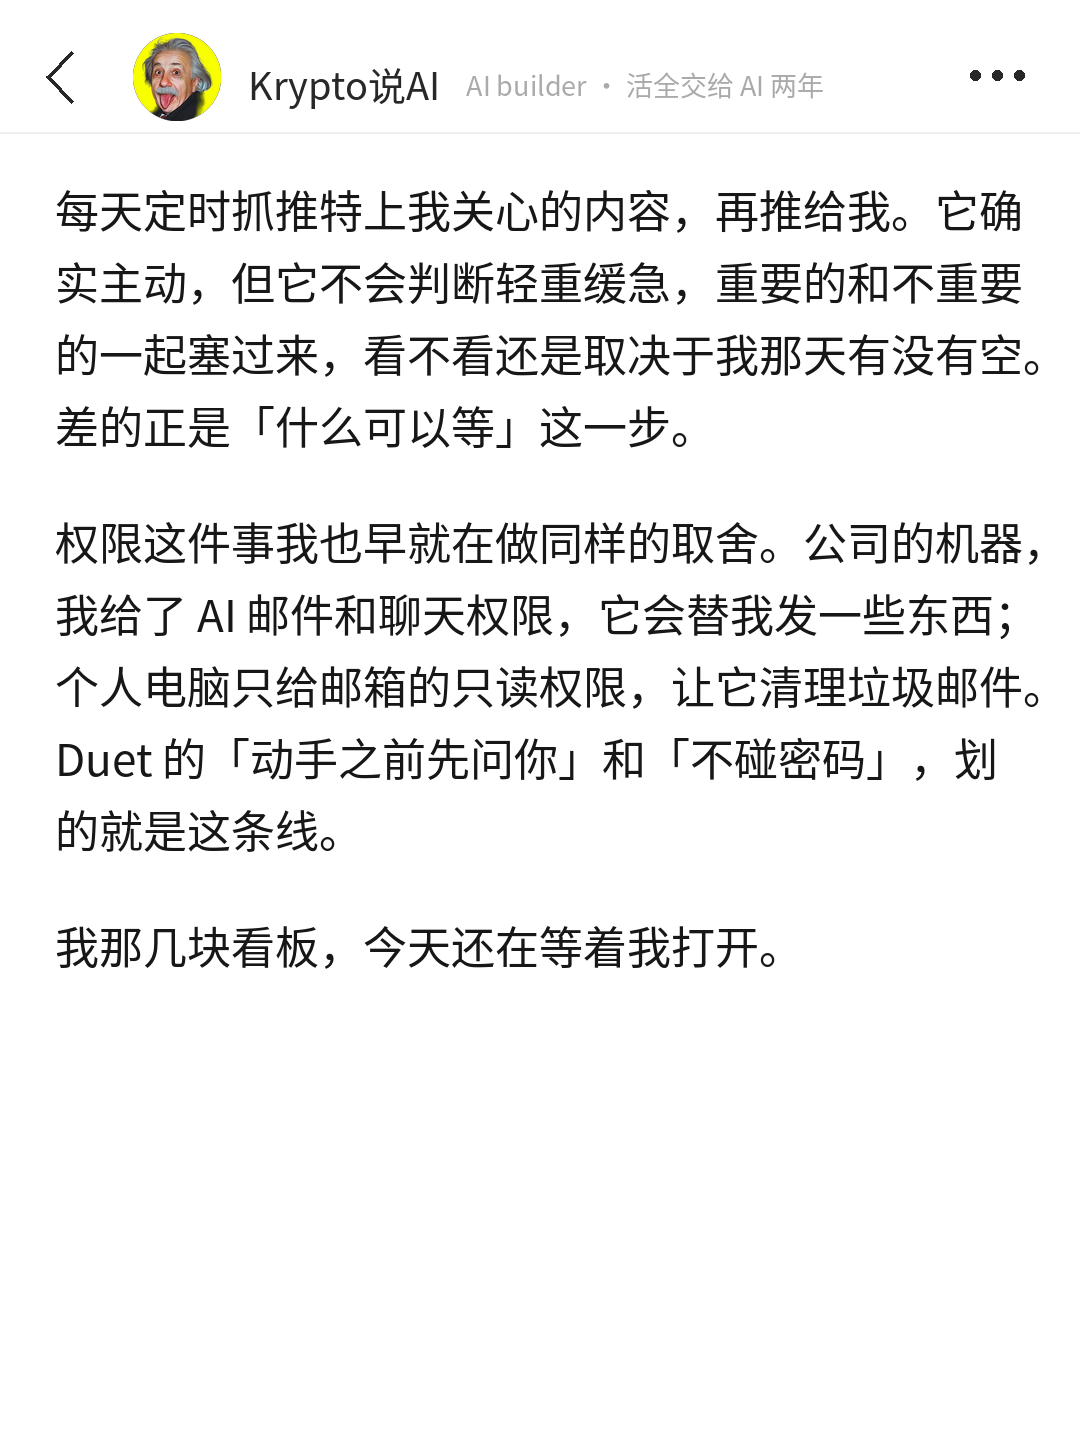
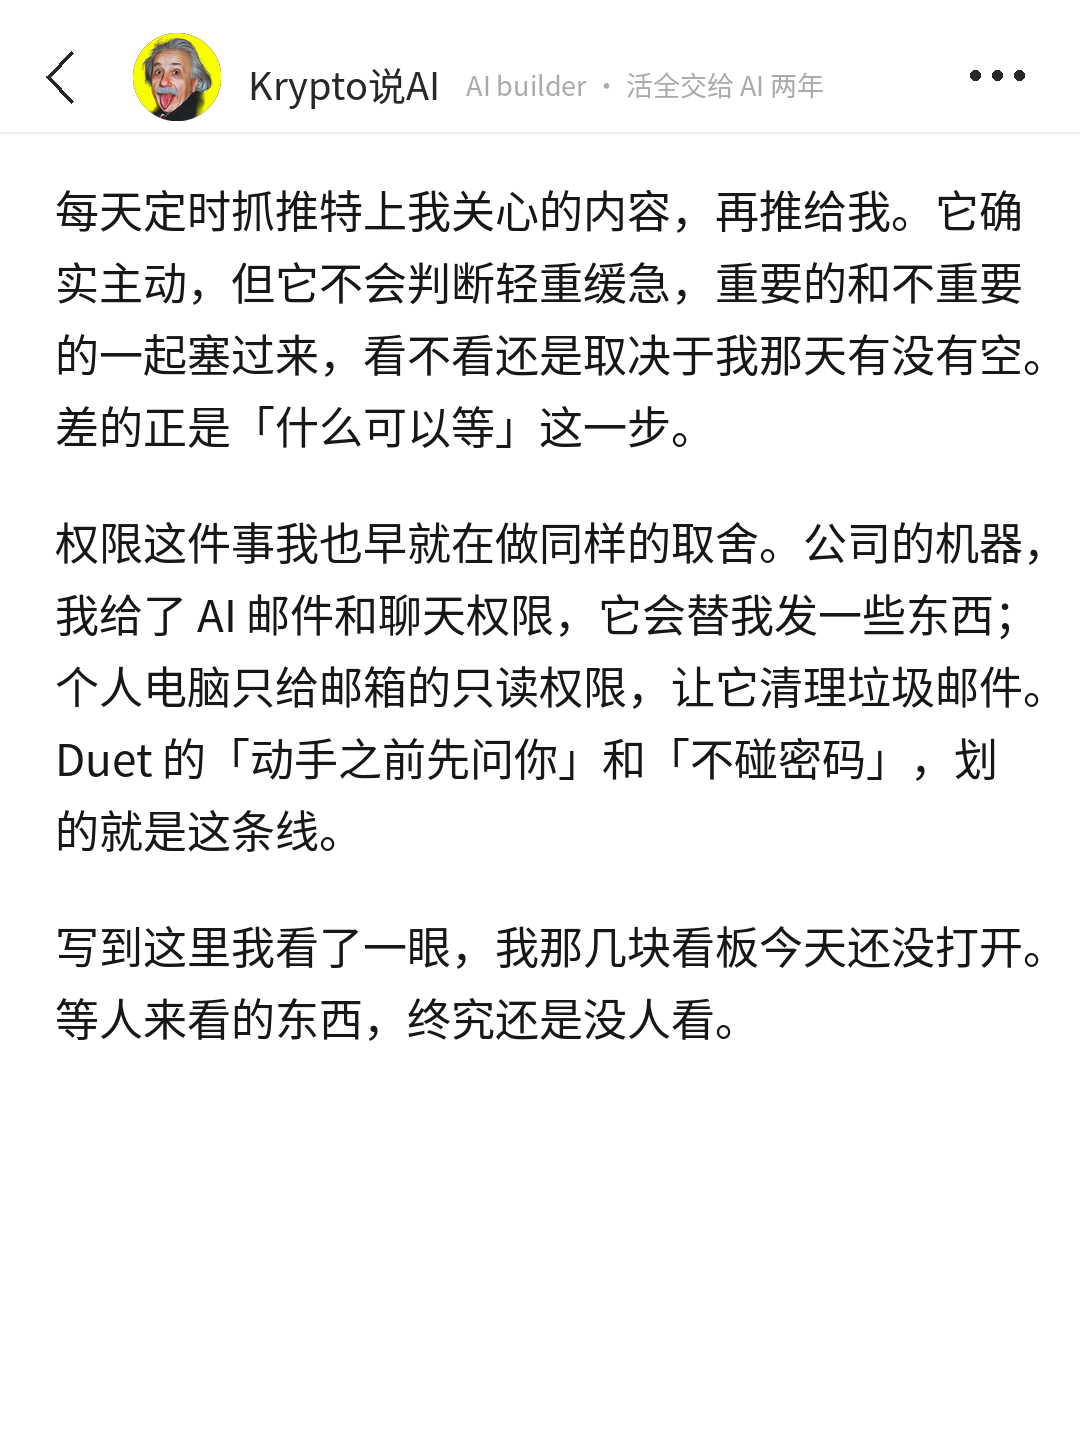
Claude Duet 稿结尾写明白
Claude-Session: https://claude.ai/code/session_017tvE9f3JBJNdHBN9dZEhix

Changed region(s): [[0.0611, 0.625, 0.9472, 0.7188]]

diff --git a/CLAUDE.md b/CLAUDE.md
@@ -3,7 +3,7 @@
 这个仓库是小红书账号 **Krypto说AI** 的工作区，也是它的记忆。在这里做的每一篇稿子，先读本页，再读 `账号/档案.md`、`账号/经历库.md` 和 `账号/爆文方法论.md`（10-14 起，选题 / 标题 / 首图 / 原文跟发的发前清单，交付时逐条写过没过）。每次用户说了新的经历、新的观点、新的规则，写回这两份文件并更新本页摘要，不要只留在对话里。
 
 ## 摘要
-- **10-22 Claude Duet 发布稿（meme-v2 第 3 篇，热点快评，value 框架，立场 D，`发布/2026-10-22_claude-duet/meme-v2版/`，6 页）**：素材是用户发来的 @claudeai 四条推文打包（10-22 03:09 HK 发布，420 万浏览，100 秒演示视频 640×360）。没走先问，默认：stance「主动型 agent 的胜负手不在能做多少事，在判断什么时候该来打扰你准不准；判错一次用户就关通知」（D），「我」用 #25 看板等人来 / Duet 反过来找人、#10 Grok bot 定时推送差「什么可以等」、#12 权限分两台机器对上「动手前先问 / 不碰密码」，代价 #25。演示视频按 5 秒抽帧选了 5 张（通知 / It reaches out / Step away / final say / Not now·Send）。结尾回扣「我那几块看板，今天还在等着我打开」。标题「Claude Duet：AI开始主动找你了」，备选「Anthropic新app：AI先来找你」「看来很多人没看懂Claude Duet。」。check.py 0 ✗
+- **10-22 Claude Duet 发布稿（meme-v2 第 3 篇，热点快评，value 框架，立场 D，`发布/2026-10-22_claude-duet/meme-v2版/`，6 页）**：素材是用户发来的 @claudeai 四条推文打包（10-22 03:09 HK 发布，420 万浏览，100 秒演示视频 640×360）。没走先问，默认：stance「主动型 agent 的胜负手不在能做多少事，在判断什么时候该来打扰你准不准；判错一次用户就关通知」（D），「我」用 #25 看板等人来 / Duet 反过来找人、#10 Grok bot 定时推送差「什么可以等」、#12 权限分两台机器对上「动手前先问 / 不碰密码」，代价 #25。演示视频按 5 秒抽帧选了 5 张（通知 / It reaches out / Step away / final say / Not now·Send）。结尾回扣原来写「我那几块看板，今天还在等着我打开」，用户问含义（没写明白），改成「写到这里我看了一眼，我那几块看板今天还没打开。等人来看的东西，终究还是没人看」。标题「Claude Duet：AI开始主动找你了」，备选「Anthropic新app：AI先来找你」「看来很多人没看懂Claude Duet。」。check.py 0 ✗
 - **10-21 Ilya 多伦多演讲稿（meme-v2 第 2 篇，观察，value 行动，立场 B，`发布/2026-10-21_ilya-uoft-speech/meme-v2版/`，8 页）**：素材是用户发来的两段视频（@XAngus 字幕版，Ilya 2025-06-06 多伦多大学荣誉学位演讲，各 4 分 51 秒）。云端拿不到 Whisper 模型（HF 被代理拦，镜像也 403），改用 rapidocr 读烧录字幕：part1 逐秒 OCR（291 帧跑了 10 分钟，用户说「不用跑每一帧」），part2 改用 ffmpeg 场景切换只抽字幕变化帧（103 帧）。逐字稿在 `编辑用/source.md`，十张截图在 `编辑用/shots/`（都带人脸 + 关键字幕）。用户没走先问（「即可」），默认：stance「对 AI 的直觉买不来也读不来，只能拿自己的一件活去换」（B），「我」用 #18 #9 #19，代价是 #9 Codex 定时 sites（代价列已填），回指 10-18 Anthropic 就业稿。标题「Ilya毕业演讲：AI会做你能做的一切」，备选「强烈建议看看Ilya这场毕业演讲。」「Ilya说的，很多人只听了前半句。」。check.py 0 ✗；修了 check.py 两处（刚好正则的或运算没加括号、回指正则漏「那篇时我提过」）。以后视频素材没字幕走 OCR 时，直接用场景切换抽帧，不逐秒。**用户看稿后退两处**：「他」太频繁（21 个，每千字 18）、五句字幕翻译腔（「这话常有人说，这次是真的」「他只给一点」「还得追赶」「他引了一句话」「直觉会越来越强」）。改后「他」5 个；v2 指南 §5 加两条换性质的规则：转述主语轮着来（名字 / 省略 / 内容当主语 / 原话，「他」每千字 ≤8，check.py ⚠）、字幕和转录来的句子不照字面转述。改前存 `draft_v1_他太多.md`。**三退（用户定 v2 用词口径）**：划「有人说三年就到」「拿自己的活去换」「我自己量出来的」「有没有长出来」「那该怎么办？他借了……」，原话「动词用『到』这种单字，名词用『活』，一看就是 AI 写的，要让读者感觉是一个科技 AI 栏目的主编这种内容工作者写的文字」。整篇按主编口径重写（改前存 `draft_v2_口语单字.md`）：双字谓语、「活」换成工作 / 任务、不自问自答、不用「直觉长出来」这类自造口语比喻；v2 指南 §5 加这条，check.py 加「活」≥2 和「去 / 就 / 才 + 单字动词收尾」⚠。小盖式「像跟朋友聊」的口吻在 v2 里让位给主编口径。**用户定「记进 v2，不能再犯」**：主编口径写进 `skills/meme-v2/SKILL.md` 一句话原则下，「改这份 skill 之前先读」加第 4 道门「口语不等于真人感」，不往 v2 加任何口语 / 毛边类要求。**用户看主编口径版：「内容有改进了」，标题要带他的头衔（天然流量）**：标题改「OpenAI联创Ilya：AI会做一切」，备选「强烈推荐OpenAI联创Ilya演讲。」「OpenAI联创说的，很多人只听了前半句」，keyword 改 OpenAI；v2 指南 §8 加「人物稿标题带头衔或机构」。**四退（末页「有点强行加」）**：末页叠了「没劝过的人」+「你」的时刻 + 以前 / 现在 + 两类读者四个槽位，全删，结尾改成一段「接受与否不重要，先交一项完整的工作」；v2 撤「你」段必放（改可选）、结尾「以前现在 + 两类读者」改成一种就够一段写完。改前存 `draft_v3_结尾叠槽位.md`
 - **10-21 Jack Clark 稿 v2 版（meme-v2 第 1 篇，A/B 的 B 面，`发布/2026-10-21_jack-clark-imf/meme-v2版/`，8 页）**：同一份素材，A 面是 meme版（meme-xhs 写的编号体 4 节）。用户「你定」，默认：stance「AI 越是能改专家的作业，人越得自己先算一遍」（A），reader 写成时刻「刚把数据分析交给 AI、看一眼就转发给老板的人」，cost 用 #25 看板漏 bug（代价列已填），读者直觉段「那我更没必要自己算了 → 我的体会相反」，「我」用 #8 #20 #25。评论员式连贯短文不编号，结尾落到「每周留一件活自己算」。check.py 0 ✗ 0 ⚠；写这篇时修了 check.py 三个误报（「正好」撞 AI 判成刚好式植入、Jack Clark 拆成两个专名、专名后人话的词表漏了「的」）。标题沿用用户 10-19 定的「Anthropic联创：专家竟被AI纠错」，备选加「强烈建议看看Anthropic这场讲座。」「Anthropic联创说的，我信一半。」。**第一版被用户退回**（「断句很奇怪，不像正常叙事顺序」，让我以 36 氪主编身份自评，答：不是正常栏目能发的）：第一句「物理学家被 AI 改对了答案」搭配怪、一句转三次；第二段逗号串四个分句主语换四次；事件切两半夹履历；前四段叠了四种开场（判断 / 点读者 / 读者直觉 / 我的经历），是换了槽位的凑槽位。重写成「舞台 → 事件讲完 → 我一句反应 → stance 自然带出」，改前存 `draft_v1_开场叠开场.md`。**v2 改三条（都是撤或换性质）**：开头只做一件事、「我最想说的一件事是」和「让读者对上号」从首页必放降为可选；一句话一个主语、逗号不连三个以上独立分句；check.py 加提示级「逗号 ≥4 的句子念一遍」。**二退**（用户划「我看完这段，想的不是 AI 有多厉害，是我自己有多久没回去查过它交上来的东西了」「这是我整场听下来最想说的一句」，问是哪条规则写的：小学生倒装句、观点破碎、句子都很短）：溯源是「第一句要有我的处境」+「不写我觉得」+「一句一段」叠出的倒装，和 Echo「我最想说的一件事」挪到句尾的残留，观点被拆在三处各半句。两句删掉，判断写成一段完整论证，「我」的反应并进经历段。v2 再改：撤「我只给一句反应」和 check.py「前四段没有我」⚠，加「判断只论证一次、不贴标签」（check.py ✗）。**用户定「记下来，v2 不能再犯」**：病根是用换一批槽位的方式去掉槽位，写进 `skills/meme-v2/SKILL.md`「改这份 skill 之前先读」三道门（会不会变成固定位置 / 范例句不是必放句 / 一个观点只论证一次），以后改 v2 任何一条先过这三道门。发哪版用户定
 - **10-21 用户定三件事**：① **新建 `/meme-v2`**（`skills/meme-v2/`，跟 meme-xhs 做 A/B，发哪版用户定，日志 series 标 `meme` 或 `meme-v2`，3 篇后看每千次观看涨粉再定留不留）：SKILL 86 行只有当前规则、无日期补丁（历史在 `references/changelog.md`），writing_guide 107 行按「我在场且付过代价 / 判断对世界下 / 每句写到结果才停」重写，`scripts/check.py` 16 ✗ 26 ⚠（meme_check 44 / 81），新增专名首现后 20 字内要有人话、单句段性质、stance 宾语是世界三项；出图 / 首页 / 公众号复用 meme-xhs 脚本；② **改输入现在就开始，两个 skill 都用**：写稿前先问加 ⑥ 你付过什么代价、⑦ 读者按直觉会怎么想；`账号/经历库.md` 加「代价（丢了什么）」列（现有 28 条空着，写稿时顺手补问）；`reader:` 写读者的具体时刻不写职业；v2 front matter 多一个 `cost`；③ `对标/玉伯_YouMind/` 并进 `对标/玉伯/`（原文相同，第二份拆解接在后面）

diff --git a/发布/2026-10-22_claude-duet/meme-v2版/编辑用/draft.md b/发布/2026-10-22_claude-duet/meme-v2版/编辑用/draft.md
@@ -34,4 +34,4 @@ account: Krypto说AI
 
 权限这件事我也早就在做同样的取舍。公司的机器，我给了 AI 邮件和聊天权限，它会替我发一些东西；个人电脑只给邮箱的只读权限，让它清理垃圾邮件。Duet 的「动手之前先问你」和「不碰密码」，划的就是这条线。
 
-我那几块看板，今天还在等着我打开。
+写到这里我看了一眼，我那几块看板今天还没打开。等人来看的东西，终究还是没人看。
